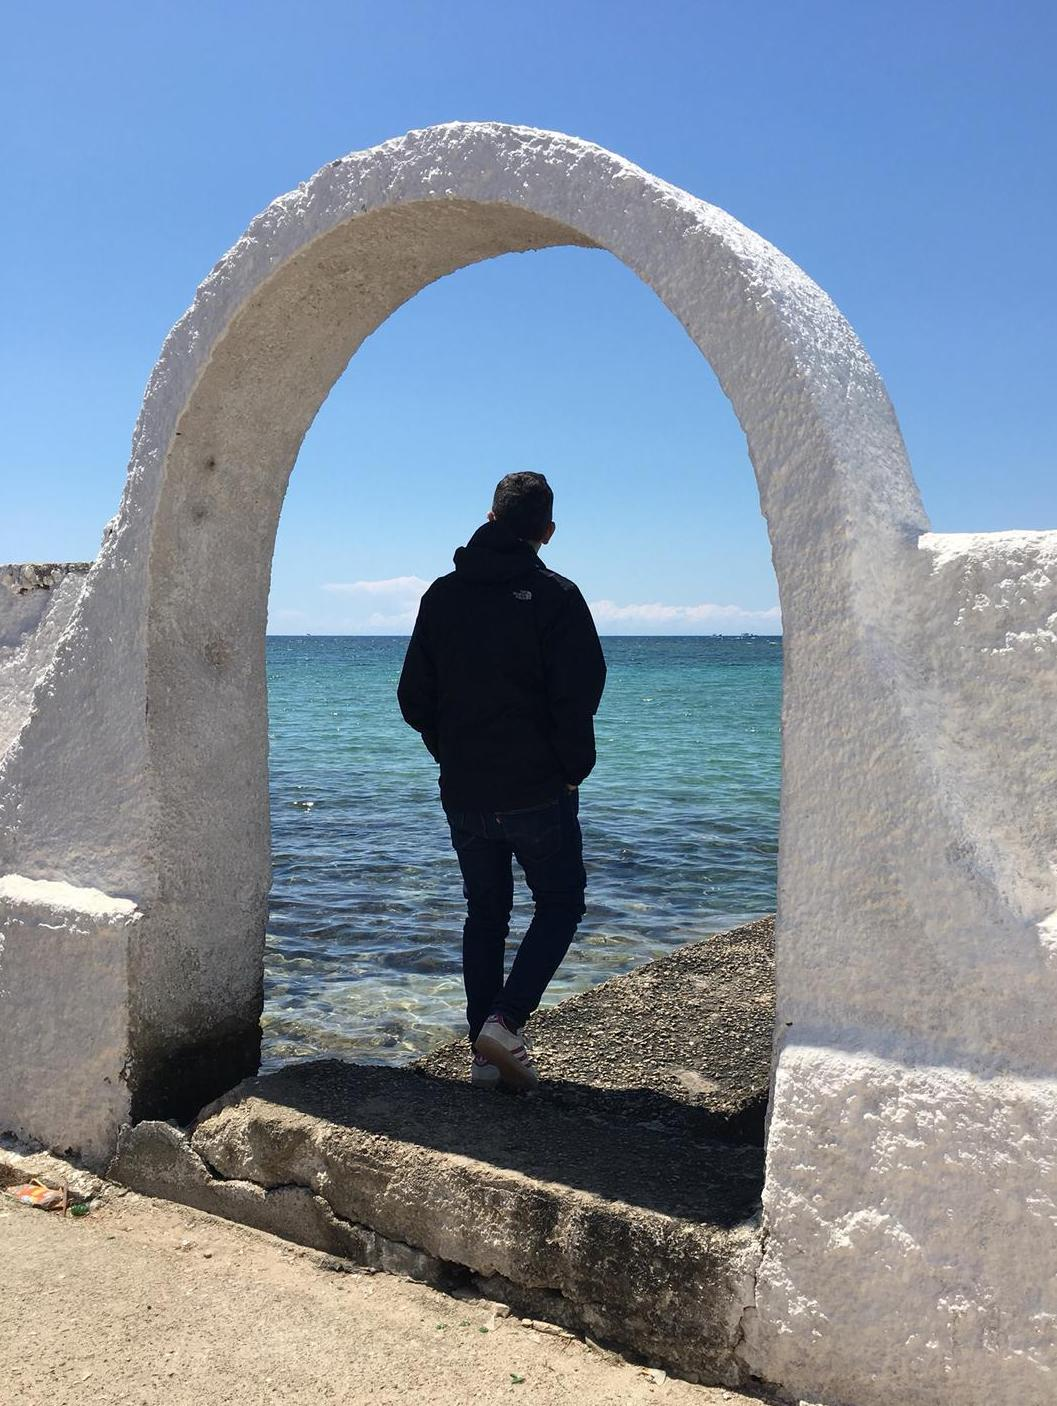
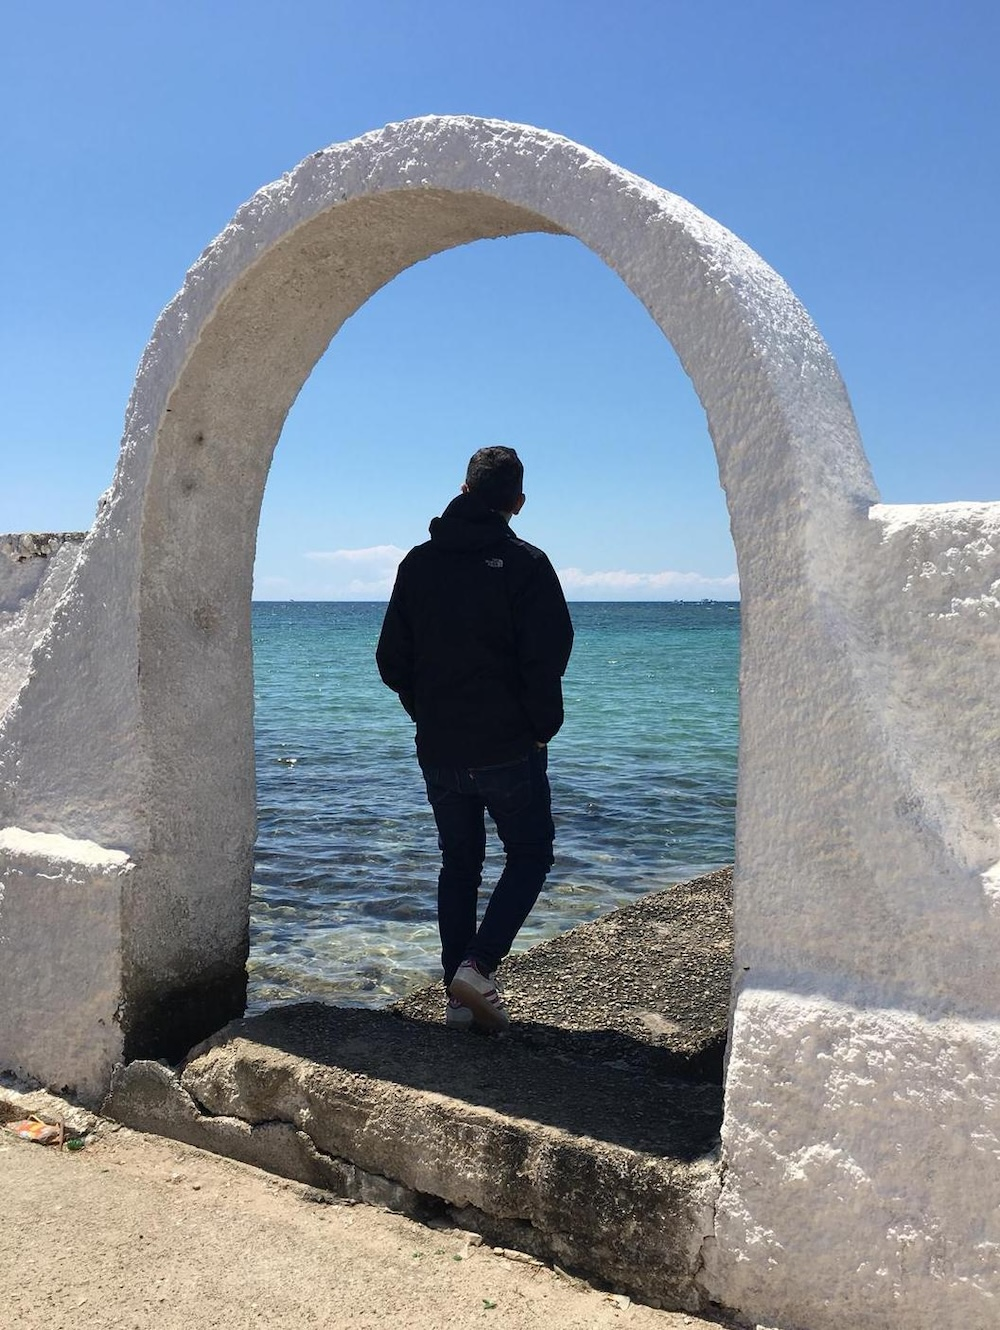
Followed lighthouse recommendations to tweak image styling

Changed region(s): [[0.496, 0.6782, 0.713, 0.7707], [0.403, 0.7398, 0.434, 0.7707], [0.341, 0.8015, 0.372, 0.8323]]

diff --git a/components/About.js b/components/About.js
@@ -1,11 +1,12 @@
 import { about } from '../data/config'
+import Image from 'next/image'
 
 const About = () => {
   const { image, birthplace, company } = about
 
   return (
     <section
-      className='section skills animate__animated animate__fadeIn animate__delay-3s'
+      className='section about animate__animated animate__fadeIn animate__delay-3s'
       id='about'
     >
       <h2 className='section__title'>About me</h2>
@@ -45,10 +46,15 @@ const About = () => {
           libraries and tools for Software Development.
         </p>
         <p>This picture is taken in Porto Cesareo, one of my beloved places.</p>
-      </div>
-      <div>
         {image && (
-          <img className='project__thumbnail' src={image.url} alt={image.alt} />
+          <Image
+            className='about__image'
+            alt={image.alt}
+            src={image.url}
+            width={500}
+            height={665}
+            sizes='100vw'
+          />
         )}
       </div>
     </section>

diff --git a/components/Navbar.js b/components/Navbar.js
@@ -1,6 +1,6 @@
 import { useContext, useEffect, useState } from 'react'
 import { ThemeContext } from '../contexts/theme'
-import { meta, projects, skills, contact } from '../data/config'
+import { meta, skills, contact } from '../data/config'
 import CloseIcon from '@material-ui/icons/Close'
 import MenuIcon from '@material-ui/icons/Menu'
 import WbSunnyRoundedIcon from '@material-ui/icons/WbSunnyRounded'

diff --git a/pages/_app.js b/pages/_app.js
@@ -2,6 +2,7 @@ import Head from 'next/head'
 import { ThemeProvider } from '../contexts/theme'
 import { meta } from '../data/config'
 import '../styles/index.css'
+import '../styles/About.css'
 import '../styles/App.css'
 import '../styles/Header.css'
 import '../styles/Navbar.css'

diff --git a/data/config.js b/data/config.js
@@ -23,7 +23,7 @@ const intro = {
 
 const about = {
   image: {
-    url: 'images/about.jpg',
+    url: '/images/about.jpg',
     alt: 'A picture of me, in Porto Cesareo',
   },
   birthplace: {

diff --git a/styles/About.css b/styles/About.css
@@ -1,0 +1,3 @@
+.about__image {
+  border-radius: 0.5rem;
+}
